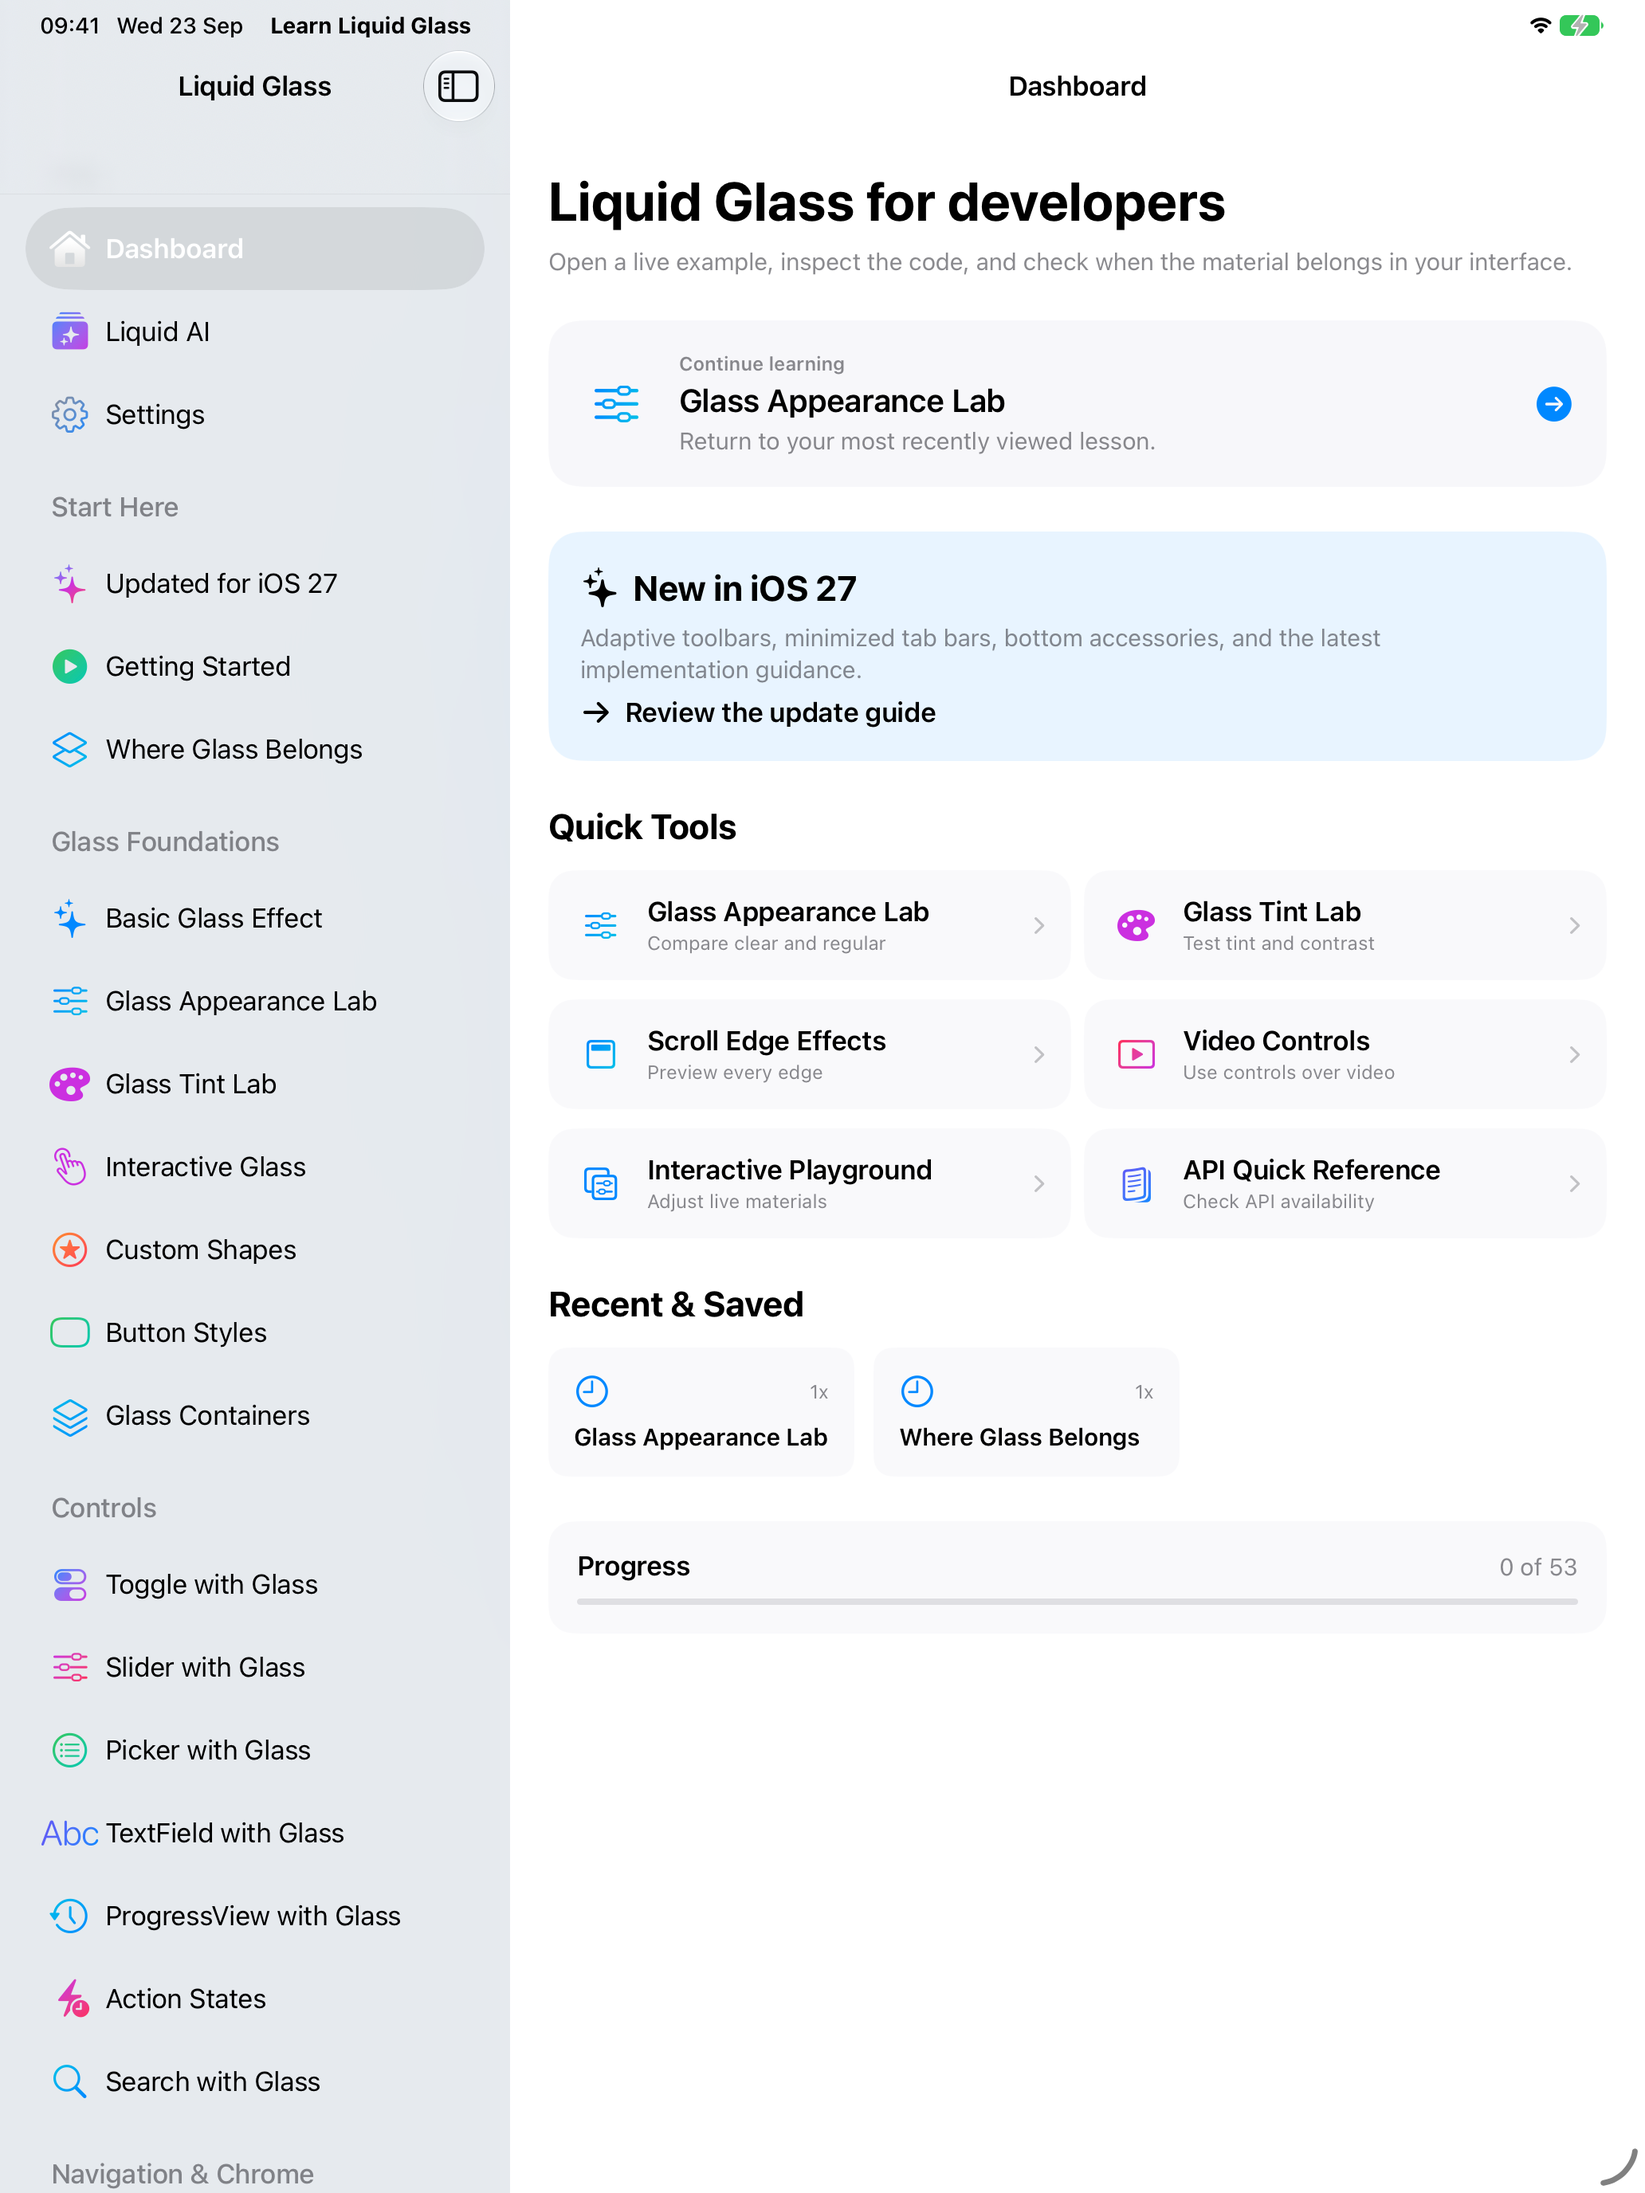
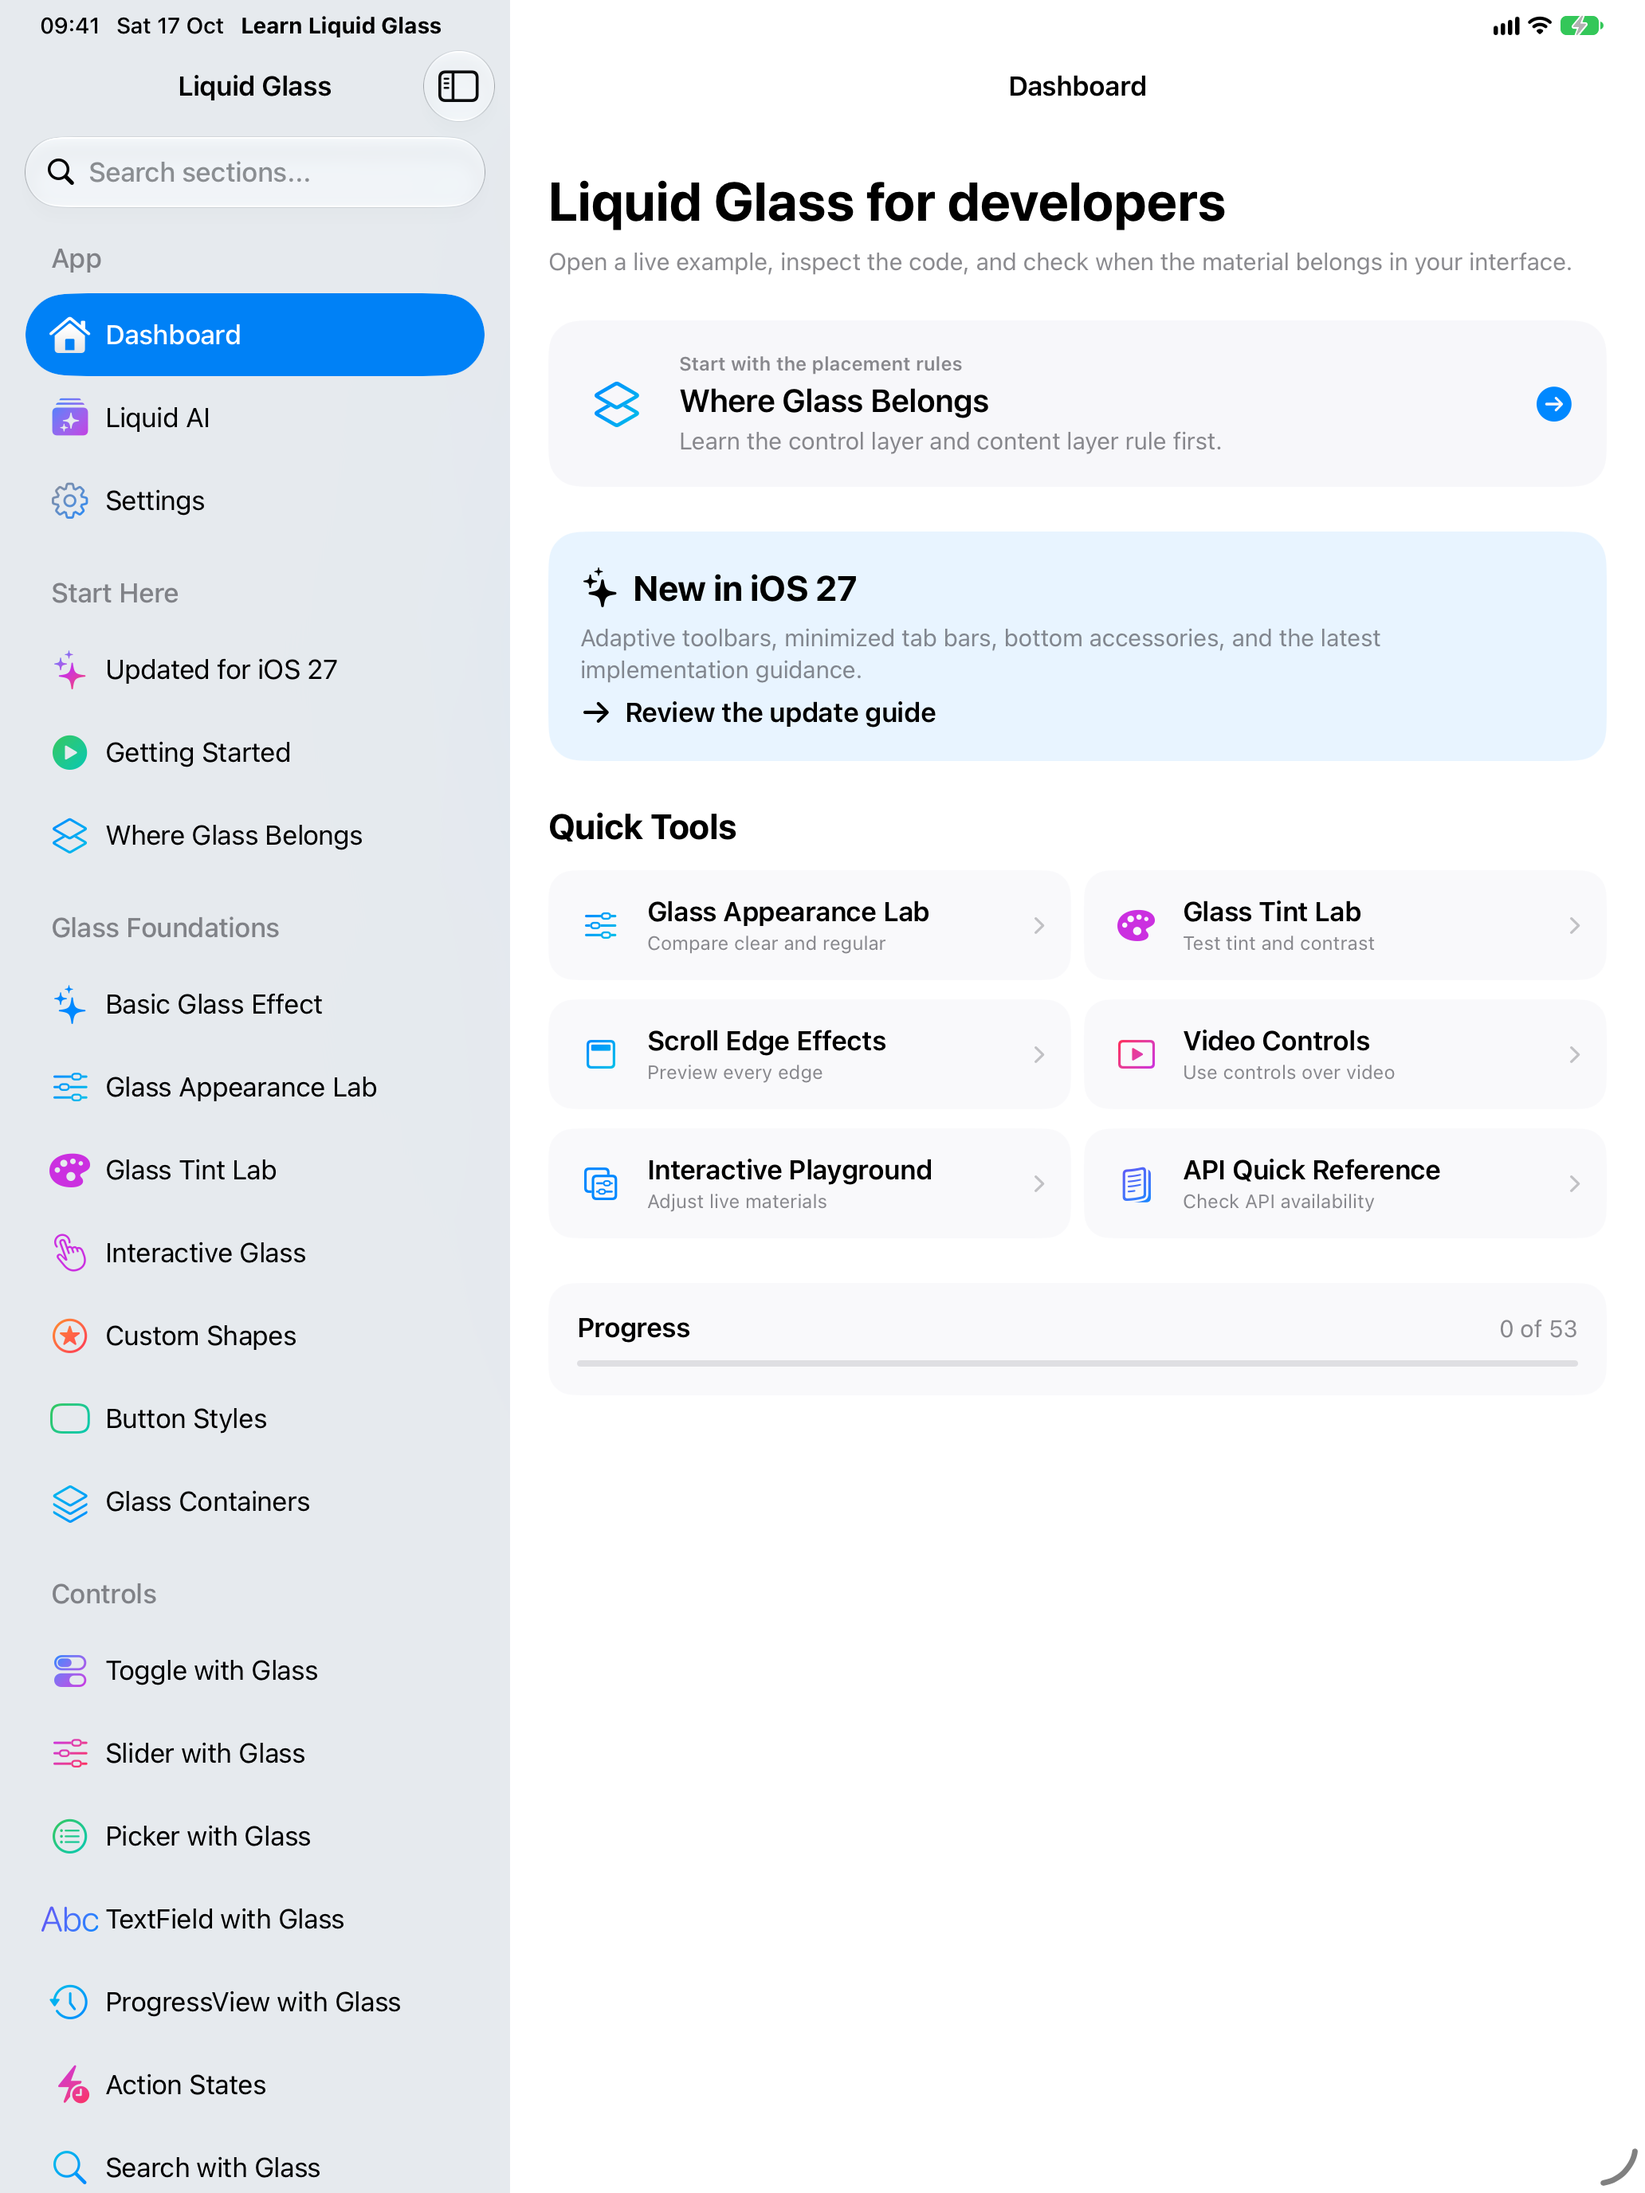
Learn Liquid Glass: new site screenshots from 1.2026.3
Replace the Mac, iPad and iPhone code-row screenshots (the code row now shows
the Morphing Transitions lesson with the share button), cache-bust them with
?v=20261017a, and document the app's facts and capture workflow in CLAUDE.md.

diff --git a/learn-liquid-glass/index.html b/learn-liquid-glass/index.html
@@ -159,7 +159,7 @@
               <div class="device-screen">
                 <div class="macbook-desktop">
                   <img
-                    src="/assets/learn-liquid-glass/mac-lessons.png"
+                    src="/assets/learn-liquid-glass/mac-lessons.png?v=20261017a"
                     width="2292"
                     height="1532"
                     alt="Learn Liquid Glass on Mac, showing the Getting Started lesson beside the full lesson sidebar."
@@ -183,7 +183,7 @@
                 <div class="device device-ipad">
                   <div class="device-screen">
                     <img
-                      src="/assets/learn-liquid-glass/ipad-dashboard.png"
+                      src="/assets/learn-liquid-glass/ipad-dashboard.png?v=20261017a"
                       width="2064"
                       height="2752"
                       alt="The Learn Liquid Glass home screen on iPad, with the lesson sidebar and quick tools visible together."
@@ -231,10 +231,10 @@
                 <div class="device device-iphone">
                   <div class="device-screen">
                     <img
-                      src="/assets/learn-liquid-glass/phone-code.jpg"
+                      src="/assets/learn-liquid-glass/phone-code.jpg?v=20261017a"
                       width="560"
                       height="1216"
-                      alt="A Liquid Glass example on iPhone with a floating glass button over a photo and its Swift source beneath."
+                      alt="The Morphing Transitions lesson on iPhone: a glass control morphing over a twilight lake photo, with its Swift source beneath."
                       loading="lazy"
                       decoding="async" />
                     <img class="device-bezel" src="/assets/learn-liquid-glass/iphone-17-pro-max.png"

diff --git a/index.html b/index.html
@@ -134,7 +134,7 @@
             <div class="device-screen">
               <div class="macbook-desktop">
                 <img
-                  src="/assets/learn-liquid-glass/mac-lessons.png"
+                  src="/assets/learn-liquid-glass/mac-lessons.png?v=20261017a"
                   width="2292"
                   height="1532"
                   alt="Learn Liquid Glass on Mac, showing the Getting Started lesson beside the full lesson sidebar."
@@ -181,7 +181,7 @@
                 <div class="device device-ipad">
                   <div class="device-screen">
                     <img
-                      src="/assets/learn-liquid-glass/ipad-dashboard.png"
+                      src="/assets/learn-liquid-glass/ipad-dashboard.png?v=20261017a"
                       width="2064"
                       height="2752"
                       alt="The Learn Liquid Glass home screen on iPad, with the lesson sidebar and quick tools visible together."
@@ -229,10 +229,10 @@
                 <div class="device device-iphone">
                   <div class="device-screen">
                     <img
-                      src="/assets/learn-liquid-glass/phone-code.jpg"
+                      src="/assets/learn-liquid-glass/phone-code.jpg?v=20261017a"
                       width="560"
                       height="1216"
-                      alt="A Liquid Glass example on iPhone with a floating glass button over a photo and its Swift source beneath."
+                      alt="The Morphing Transitions lesson on iPhone: a glass control morphing over a twilight lake photo, with its Swift source beneath."
                       loading="lazy"
                       decoding="async" />
                     <img class="device-bezel" src="/assets/learn-liquid-glass/iphone-17-pro-max.png"

diff --git a/press/index.html b/press/index.html
@@ -132,9 +132,9 @@
             <p>Learn Liquid Glass teaches Apple&rsquo;s Liquid Glass design in SwiftUI by doing. It has more than 50 guided lessons and over 200 working examples that developers can adjust live and copy the Swift code from. Optional on-device help from Apple Intelligence explains where glass belongs. No account, no tracking, and it works offline. Requires iOS 26, iPadOS 26 or macOS 26.</p>
             <ul class="press-downloads" aria-label="Learn Liquid Glass downloads">
               <li><a href="/assets/learn-liquid-glass/app-icon.jpg" download>App icon <span>512 px JPG</span></a></li>
-              <li><a href="/assets/learn-liquid-glass/mac-lessons.png" download>Mac screenshot <span>PNG</span></a></li>
-              <li><a href="/assets/learn-liquid-glass/ipad-dashboard.png" download>iPad screenshot <span>PNG</span></a></li>
-              <li><a href="/assets/learn-liquid-glass/phone-code.jpg" download>iPhone screenshot: code <span>JPG</span></a></li>
+              <li><a href="/assets/learn-liquid-glass/mac-lessons.png?v=20261017a" download>Mac screenshot <span>PNG</span></a></li>
+              <li><a href="/assets/learn-liquid-glass/ipad-dashboard.png?v=20261017a" download>iPad screenshot <span>PNG</span></a></li>
+              <li><a href="/assets/learn-liquid-glass/phone-code.jpg?v=20261017a" download>iPhone screenshot: code <span>JPG</span></a></li>
               <li><a href="/assets/learn-liquid-glass/phone-liquid-ai.jpg" download>iPhone screenshot: Liquid AI <span>JPG</span></a></li>
               <li><a href="https://apps.apple.com/app/learn-liquid-glass/id6768110722" target="_blank" rel="noopener noreferrer">App Store listing <span>apps.apple.com</span></a></li>
             </ul>

diff --git a/CLAUDE.md b/CLAUDE.md
@@ -63,6 +63,37 @@ Typeface: Sora, self-hosted variable woff2 in `assets/fonts/sora/` with its OFL 
   their own `?v=YYYYMMDD<letter>` (currently `20261012a`) in `index.html` and `roulette-play/index.html`; bump it when the
   images change. The press kit's `roulette-play-app-store-screenshots.zip` holds the 8 English portrait App Store
   screenshots. Last refreshed for 1.2026.3 (12 Oct 2026), with JSON-LD `softwareVersion` 1.2026.3.
+- **Learn Liquid Glass** (App Store id `6768110722`, bundle `com.vibenode.learn-liquid-glass`). **Free since
+  1.2026.2** (live 12 Oct 2026; checked 17 Oct via `itunes.apple.com/lookup?id=6768110722&country=gb`). Category is
+  still Education on the public listing; the app repo plans a switch to Developer Tools in App Store Connect, so only
+  change "Education" on the site once the listing shows it. 1.2026.3 (iOS build 12, Mac build 11) is prepared locally,
+  not yet uploaded: new Unsplash photography behind many more lesson examples (Morphing Transitions, Animations, Touch,
+  Pencil Hover, Gestures, State Machines, AppKit…), share-an-example-page flow, rating prompt only after 8 completed
+  lessons. Release copy: the app repo's `Documentation/APP_STORE_RELEASE_<version>.md`. The marketing line stays
+  "50+ guided lessons, 200+ working examples", no account, no tracking, works offline, iOS/iPadOS/macOS 26+.
+  Facts to keep in step on the site: price (JSON-LD `offers` on the home page and app page, FAQ, facts list, meta
+  description, press kit card), `softwareVersion` in `learn-liquid-glass/index.html`, `llms.txt`.
+- Learn Liquid Glass site screenshots (in `assets/learn-liquid-glass/`) are raw app captures shown inside the site's
+  own bezels, used on `index.html`, `learn-liquid-glass/index.html` (also JSON-LD `screenshot`) and as press downloads:
+  `mac-lessons.png` (2292×1532, in `macbook-pro-m5.png`), `ipad-dashboard.png` (2064×2752 portrait, in
+  `ipad-pro-m5.png`), `phone-liquid-ai.jpg` + `phone-code.jpg` (560×1216, in `iphone-17-pro-max.png`). Replace them at
+  the same pixel size and aspect so the bezel fit holds (or update the `width`/`height` attributes everywhere). Replaced
+  ones carry `?v=YYYYMMDD<letter>` (`phone-code.jpg` + `ipad-dashboard.png` at `20261017a`) in `index.html`,
+  `learn-liquid-glass/index.html` and `press/index.html`; bump it whenever an image changes. Despite its name,
+  `phone-code.jpg` shows the Morphing Transitions lesson since 17 Oct 2026; `phone-liquid-ai.jpg` is still the Sep shot
+  (Liquid AI fails to answer in the simulator, so a conversation needs real hardware).
+  **How they're made:** the app has a Debug-only `--marketing-capture=<name>` launch argument (`MarketingCaptureView.swift`:
+  `dashboard`, `lessons`, `liquid-ai`, `code-example`, …) and `--lesson=<LiquidGlassSection raw value>` (e.g.
+  `--lesson=Morphing Transitions`). Build Debug into the scratchpad, run on the iPhone 17 Pro Max simulator (1320×2868 →
+  `sips -z 1216 560`, JPEG ~80) and iPad Pro 13-inch (M5) (2064×2752, used as is), status bar overridden to 9:41 via
+  `simctl status_bar`. First launch after a fresh boot can take minutes and capture blank: re-check before using.
+  Mac: launch the Debug Mac app with `--marketing-capture=lessons`; it opens at 1100×720. Get its window id from
+  `CGWindowListCopyWindowInfo` (small Swift snippet), then `screencapture -x -l <id> mac-lessons.png` gives the
+  2292×1532 transparent-shadow PNG directly. Do it yourself, never stitch or hand it to the user. All three
+  (`mac-lessons.png` too) are at `?v=20261017a`.
+  The finished App Store sets (with captions, not for the site bezels) are in the app repo under
+  `App Store Screenshots/Final/`, `iPad App Store Screenshots/Final/`, `Mac App Store Screenshots/Final/` and
+  `iPhone Duo App Store Screenshots/`; the press kit has no Learn Liquid Glass screenshot ZIP yet.
 - New page → also add it to `sitemap.xml`.
 - Contact is `contact@vibenode.co.uk` everywhere.
 
